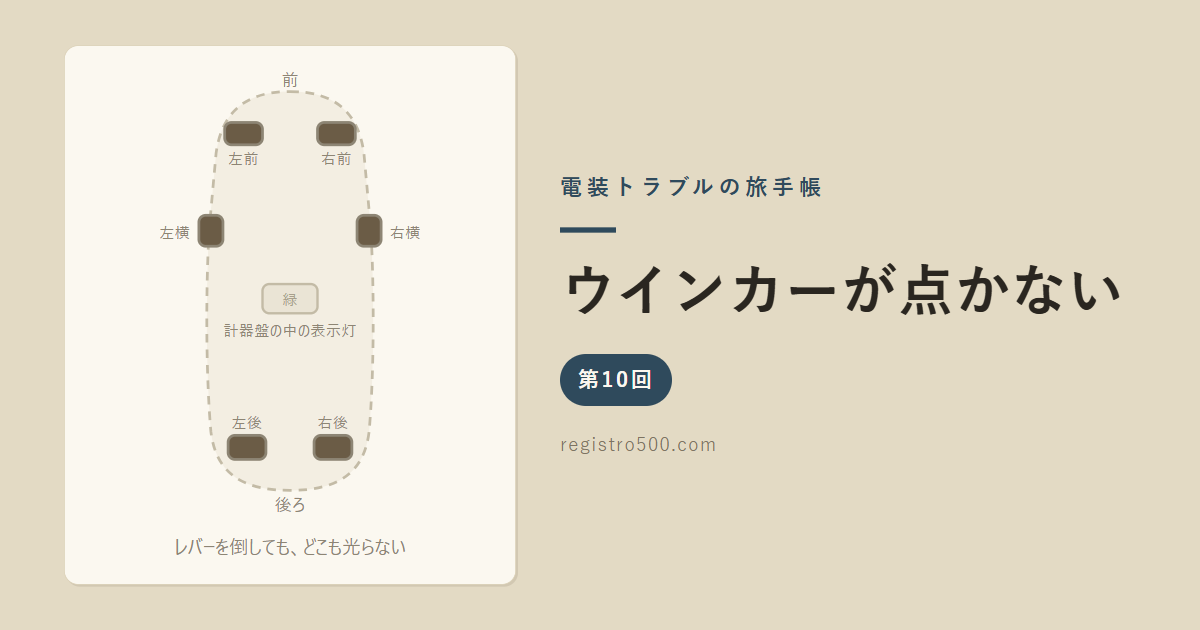
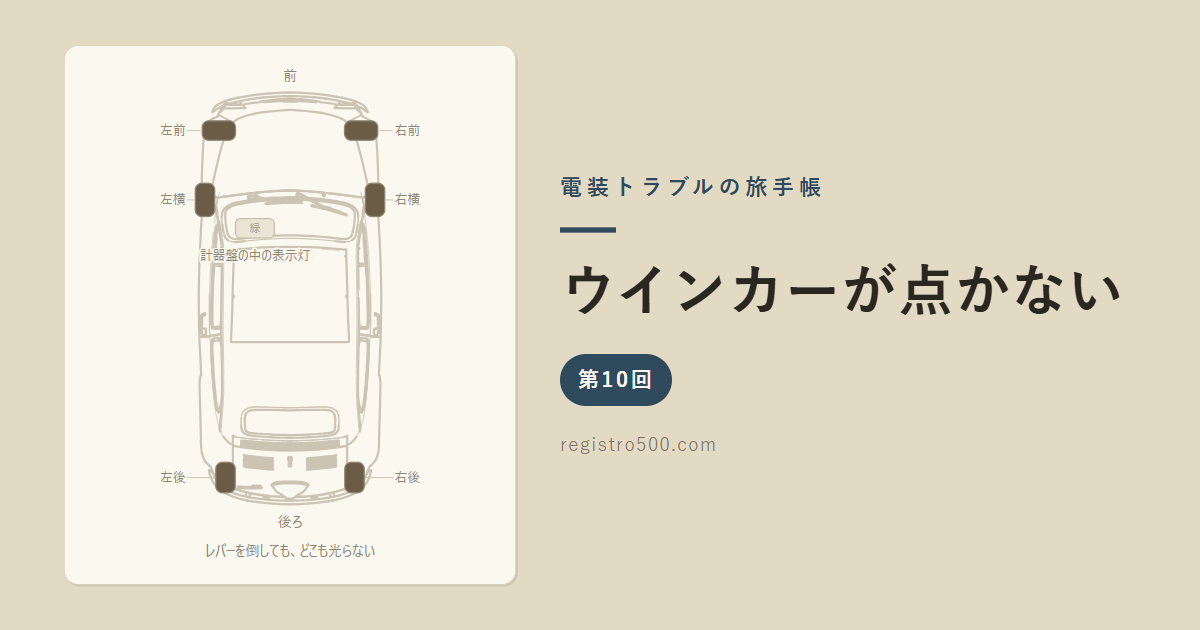
feat(journey): 第10回のアイキャッチを実車の上面線図に差し替え＝冒頭も「ウインカーレバーを倒しても」へ
手描きの模式シルエットをやめ、carmap と同じ car-top-v9.svg を下敷きに敷く。
灯の位置は線図から機械で測って置いた（テールランプ・ヘッドライト・フェンダー
後端・フロントウィンドウ枠の実座標）＝ただし wiring-layout.json の実測値では
ないので carmap の marks は打たず、cap で「おおよその位置」と断る。

- 共通JS に carArt()/cfg.carfig を新設（scopeCarStyles は既定 #carcrop のまま
  ＝既存回の挙動は不変）。灯とラベルは HTML 側に静的、輪郭だけを先頭に敷く
- id は carfig（j- で始めると検算スナップショットに輪郭123KBが丸ごと入る）
- build_og_cards.py に inline_car() を追加＝版下は HTML を静的に読むだけなので、
  このままでは車体の無いカードが黙ってできる。og/journey-turn.png を焼き直し
- 絵を替えたので、その絵について書いた文を数え直した（リード・cap・aria-label）
- 検算231件/不一致0・bbox衝突ゼロ・第1回の carmap が従来どおりであることを確認

Claude-Session: https://claude.ai/code/session_0181AzGg6Pti1yzMUS24b3Za

Changed region(s): [[0.1233, 0.1206, 0.37, 0.9048]]

diff --git a/wiring-journey-turn.html b/wiring-journey-turn.html
@@ -36,40 +36,46 @@
 
 <header>
   <h1 class="brk"><span>ウインカーが</span><span>点かない</span></h1>
-  <p>片側に倒しても何も光らない。あるいは<b>前は光るのに後ろだけ光らない</b>。500 のウインカーは<b>前・横・後ろの3つが一組</b>で光ります——横というのは、前のフェンダーの脇についている小さな灯のことです。この3つが<b>どこで分かれているか</b>を知っていると、<b>消えている灯の組み合わせだけで、外れている場所が言い当てられます</b>。</p>
+  <p>ウインカーレバーを倒しても何も光らない。あるいは<b>前は光るのに後ろだけ光らない</b>。500 のウインカーは<b>前・横・後ろの3つが一組</b>で光ります——横というのは、前のフェンダーの脇についている小さな灯のことです。この3つが<b>どこで分かれているか</b>を知っていると、<b>消えている灯の組み合わせだけで、外れている場所が言い当てられます</b>。</p>
 </header>
 <p class="scope">このストーリーは <b>FIAT 500（D・F・L・R型）</b> の話です。配線は500の原典から起こしています。</p>
 
 <!-- ============ 症状の確認＝アイキャッチ ============ -->
 <div class="scene">
-  <svg viewBox="0 0 200 292" width="280" role="img" aria-label="FIAT500を真上から見た模式図。レバーを倒しているのに前・横・後ろの6つの灯と計器盤の表示灯がすべて暗いままの図">
-    <path d="M100,16 C128,16 140,30 143,52 L147,96 C149,130 149,180 146,214 C143,238 128,248 100,248 C72,248 57,238 54,214 C51,180 51,130 53,96 L57,52 C60,30 72,16 100,16 Z"
-          fill="#f3eee2" stroke="#c3bba6" stroke-width="1.6" stroke-dasharray="5 4"/>
-    <text x="100" y="13" font-size="10" fill="#8d8574" text-anchor="middle">前</text>
-    <text x="100" y="260" font-size="10" fill="#8d8574" text-anchor="middle">後ろ</text>
-    <text x="100" y="285" font-size="11" fill="#8d8574" text-anchor="middle">レバーを倒しても、どこも光らない</text>
-    <g fill="#6b5c46" stroke="#8d8574" stroke-width="1.6">
-      <rect x="62" y="34" width="22" height="13" rx="4"/>
-      <rect x="116" y="34" width="22" height="13" rx="4"/>
-      <rect x="47" y="88" width="14" height="18" rx="4"/>
-      <rect x="139" y="88" width="14" height="18" rx="4"/>
-      <rect x="64" y="216" width="22" height="14" rx="4"/>
-      <rect x="114" y="216" width="22" height="14" rx="4"/>
+  <svg id="carfig" viewBox="-360 -180 2086 3620" width="280" role="img" aria-label="FIAT500を真上から見た線図。ウインカーレバーを倒しているのに、前・横・後ろの6つの灯と計器盤の表示灯がすべて暗いままの図">
+    <text x="683" y="-60" font-size="100" fill="#8d8574" text-anchor="middle">前</text>
+    <text x="683" y="3160" font-size="100" fill="#8d8574" text-anchor="middle">後ろ</text>
+    <g fill="#6b5c46" stroke="#8d8574" stroke-width="9">
+    <rect x="50" y="230" width="240" height="140" rx="48"/>
+    <rect x="1076" y="230" width="240" height="140" rx="48"/>
+    <rect x="0" y="680" width="140" height="240" rx="48"/>
+    <rect x="1226" y="680" width="140" height="240" rx="48"/>
+    <rect x="148" y="2692" width="140" height="220" rx="48"/>
+    <rect x="1078" y="2692" width="140" height="220" rx="48"/>
     </g>
-    <g font-size="9" fill="#8d8574">
-      <text x="73" y="58" text-anchor="middle">左前</text>
-      <text x="127" y="58" text-anchor="middle">右前</text>
-      <text x="42" y="101" text-anchor="end">左横</text>
-      <text x="158" y="101">右横</text>
-      <text x="75" y="212" text-anchor="middle">左後</text>
-      <text x="125" y="212" text-anchor="middle">右後</text>
+    <g stroke="#c3bba6" stroke-width="6">
+    <line x1="40" y1="300" x2="-60" y2="300"/>
+    <line x1="1326" y1="300" x2="1426" y2="300"/>
+    <line x1="-10" y1="800" x2="-60" y2="800"/>
+    <line x1="1376" y1="800" x2="1426" y2="800"/>
+    <line x1="138" y1="2802" x2="-60" y2="2802"/>
+    <line x1="1228" y1="2802" x2="1426" y2="2802"/>
     </g>
-    <rect x="84" y="128" width="32" height="17" rx="4" fill="#eae4d5" stroke="#c3bba6" stroke-width="1.4"/>
-    <text x="100" y="140" font-size="9" fill="#a89f8b" text-anchor="middle">緑</text>
-    <text x="100" y="158" font-size="9" fill="#8d8574" text-anchor="middle">計器盤の中の表示灯</text>
+    <g font-size="92" fill="#8d8574">
+    <text x="-70" y="333" text-anchor="end">左前</text>
+    <text x="1436" y="333">右前</text>
+    <text x="-70" y="833" text-anchor="end">左横</text>
+    <text x="1436" y="833">右横</text>
+    <text x="-70" y="2835" text-anchor="end">左後</text>
+    <text x="1436" y="2835">右後</text>
+    </g>
+    <rect x="290" y="935" width="280" height="140" rx="36" fill="#eae4d5" stroke="#c3bba6" stroke-width="8"/>
+    <text x="430" y="1033" font-size="80" fill="#a89f8b" text-anchor="middle">緑</text>
+    <text x="430" y="1235" font-size="92" fill="#8d8574" text-anchor="middle" paint-order="stroke" stroke="#faf7f0" stroke-width="24">計器盤の中の表示灯</text>
+    <text x="683" y="3370" font-size="100" fill="#8d8574" text-anchor="middle">レバーを倒しても、どこも光らない</text>
   </svg>
 </div>
-<p class="cap">レバーを倒しているのに、<b>どこも光らない</b>——というのがこのページの症状です。上の絵は<b>位置関係だけを示した模式図</b>で、実車の形をなぞったものではありません。<b>キーは回してください</b>。500 のウインカーは<b>キーを回さないと出ません</b>（ヘッドライトや車幅灯とは、そこが違います）。</p>
+<p class="cap">レバーを倒しているのに、<b>どこも光らない</b>——というのがこのページの症状です。上の絵は<b>実車を真上から見た形</b>に灯を重ねたもので、<b>灯の印はおおよその位置</b>です。<b>キーは回してください</b>。500 のウインカーは<b>キーを回さないと出ません</b>（ヘッドライトや車幅灯とは、そこが違います）。</p>
 
 <div class="safety">
   ⚠<b>ウインカーが出ない車は、曲がる先が誰にも伝わらない車です。</b>直るまでは、右左折と車線変更のたびに<b>手信号</b>を出してください（窓から腕を水平に出せば右、腕を上に曲げれば左です）。<b>片側だけ出ないほうが危険</b>です——出ていると思って運転してしまうからです。
@@ -181,7 +187,7 @@
 </div>
 
 <script src="/wiring-sim.js?v=5dd854f2"></script>
-<script src="/wiring-journey.js?v=4bc8ff75"></script>
-<script src="/wiring-journey-turn.js?v=dd5d4843"></script>
+<script src="/wiring-journey.js?v=d6c818d6"></script>
+<script src="/wiring-journey-turn.js?v=a7f3fe50"></script>
 </body>
 </html>

diff --git a/wiring-journey.js b/wiring-journey.js
@@ -262,13 +262,14 @@
 
   /* ================= 実車上面図 ================= */
   /* 車SVGの <style> は文書のどこに置いても全体に効き、CSSはインライン属性に勝つ。 */
-  function scopeCarStyles(inner) {
+  function scopeCarStyles(inner, root) {
+    root = root || '#carcrop';
     return inner.replace(/<style([^>]*)>([\s\S]*?)<\/style>/g, function (_, attrs, css) {
       var scoped = css.replace(/(^|\})([^{}@]+)\{/g, function (_, brace, sel) {
         var s = sel.split(',').map(function (x) {
           x = x.trim();
           if (!x) return x;
-          return x.indexOf('#carcrop') === 0 ? x : '#carcrop ' + x;
+          return x.indexOf(root) === 0 ? x : root + ' ' + x;
         }).join(',');
         return brace + ' ' + s + '{';
       });
@@ -299,6 +300,18 @@
     e.innerHTML = html;
   }
 
+  /* 症状の絵の下敷きに、実車の輪郭をそのまま敷く（第10回）。carMap とは用途が別＝
+     部品を指す印を打たないので wiring-layout.json の実測値に依存しない（灯の位置は原典の座標ではない）。
+     ⚠灯とラベルは HTML 側に静的に書いてあり、ここで足すのは【輪郭だけ】＝先頭に挿入して他の要素の下へ敷く。
+     JS が動かなくても灯とラベルは読める。opts: {id, transform} */
+  function carArt(opts) {
+    var e = document.getElementById(opts.id); if (!e) return;
+    var inner = CAR_SVG.replace(/^[\s\S]*?<svg[^>]*>/, '').replace(/<\/svg>\s*$/, '');
+    e.innerHTML = '<g id="carart" style="color:#cbc4b3"' + (opts.transform ? ' transform="' + opts.transform + '"' : '') + '>'
+      + scopeCarStyles(inner, '#carart') + '</g>' + e.innerHTML;
+  }
+  var CAR_SVG = '';
+
   /* ================= 起動 ================= */
   /* cfg: lampId …このストーリーの主役の負荷ID（例 'quadro.warn_oil'・'starter'）。
      「灯」とは限らない＝ランプでもモーターでも、solve() が返す負荷ならよい alt …既定でパッチ（オルタ換装）を当てるか extra …場面にストーリー固有の判定を足す（例 charging） flow …黄点の流れの向きの上書き draw … function(kit, mode) →図の高さ。
@@ -306,7 +319,7 @@
      [{ key:'lights', init:'ON' }, { key:'beam', init:'LOW' }] の形。
      HTML 側のボタンに data-axis="lights" を付けると、その軸のボタンだけが排他になる。
      これを持たない旅は従来どおり【全ボタンが1つの排他グループ】＝挙動は1バイトも変わらない。
-     スイッチが1つしかない旅に足さない（押しても何も起きないボタンが増えるだけ）。checks …検算の配列 [{label, s:{alt,inputs,override}, expect}] scenes … function(scenario) → [{id, sc, mode}] carmap … function(layout, alt) → carMap の opts lampName …検算表の見出しに使う灯の呼び名（HTML側と揃える必要はない） */
+     スイッチが1つしかない旅に足さない（押しても何も起きないボタンが増えるだけ）。checks …検算の配列 [{label, s:{alt,inputs,override}, expect}] scenes … function(scenario) → [{id, sc, mode}] carmap … function(layout, alt) → carMap の opts carfig … {id, transform} ＝症状の絵の下敷きに実車の輪郭を敷く（carArt）。印を打たない＝実測値に依存しない絵に使う lampName …検算表の見出しに使う灯の呼び名（HTML側と揃える必要はない） */
   function boot(cfg) {
     var scenario = makeScenario(cfg);
 
@@ -368,7 +381,8 @@
       fetch('/wiring-patches.json').then(function (r) { return r.json(); }),
       fetch('/wiring-img/car-top-v9.svg').then(function (r) { return r.text(); })
     ]).then(function (a) {
-      NET = a[0]; PATCHES = a[1];
+      NET = a[0]; PATCHES = a[1]; CAR_SVG = a[2];
+      if (cfg.carfig) carArt(cfg.carfig);
       fetch('/wiring-layout.json').then(function (r) { return r.json(); }).then(function (L) {
         if (cfg.carmap) carMap('carmap', a[2], L, cfg.carmap(L, cfg.alt));
       });

diff --git a/wiring-journey-turn.js b/wiring-journey-turn.js
@@ -325,6 +325,10 @@
   ];
 
   Journey.boot({
+    /* 症状の絵（アイキャッチ）の下敷き＝実車の上面線図をそのまま敷く。前が上・画面左が車の左になるよう90度回す。
+       ⚠灯とラベルは HTML 側に静的に置いてある＝ここで足すのは輪郭だけ（JS が動かなくても灯は読める）。
+       ⛔この図に部品の印（carmap の marks）は打たない＝灯の位置は wiring-layout.json の実測値ではない。 */
+    carfig: { id: 'carfig', transform: 'translate(1366.3,0) rotate(90)' },
     lampId: 'turn_fl',
     lampName: '左前のウインカー',
     alt: false,

diff --git a/wiring-journey-headlight.html b/wiring-journey-headlight.html
@@ -259,7 +259,7 @@
 </div>
 
 <script src="/wiring-sim.js?v=5dd854f2"></script>
-<script src="/wiring-journey.js?v=4bc8ff75"></script>
+<script src="/wiring-journey.js?v=d6c818d6"></script>
 <script src="/wiring-journey-headlight.js?v=40252011"></script>
 </body>
 </html>

diff --git a/wiring-journey-ignition.html b/wiring-journey-ignition.html
@@ -195,7 +195,7 @@
 </div>
 
 <script src="/wiring-sim.js?v=5dd854f2"></script>
-<script src="/wiring-journey.js?v=4bc8ff75"></script>
+<script src="/wiring-journey.js?v=d6c818d6"></script>
 <script src="/wiring-journey-ignition.js?v=d27ef10d"></script>
 </body>
 </html>

diff --git a/wiring-journey-starter.html b/wiring-journey-starter.html
@@ -195,7 +195,7 @@
 </div>
 
 <script src="/wiring-sim.js?v=5dd854f2"></script>
-<script src="/wiring-journey.js?v=4bc8ff75"></script>
+<script src="/wiring-journey.js?v=d6c818d6"></script>
 <script src="/wiring-journey-starter.js?v=04f09fbf"></script>
 </body>
 </html>

diff --git a/wiring-journey-charge-alt.html b/wiring-journey-charge-alt.html
@@ -178,7 +178,7 @@
 </div>
 
 <script src="/wiring-sim.js?v=5dd854f2"></script>
-<script src="/wiring-journey.js?v=4bc8ff75"></script>
+<script src="/wiring-journey.js?v=d6c818d6"></script>
 <script src="/wiring-journey-charge.js?v=f22c4253"></script>
 </body>
 </html>

diff --git a/wiring-journey-charge.html b/wiring-journey-charge.html
@@ -178,7 +178,7 @@
 </div>
 
 <script src="/wiring-sim.js?v=5dd854f2"></script>
-<script src="/wiring-journey.js?v=4bc8ff75"></script>
+<script src="/wiring-journey.js?v=d6c818d6"></script>
 <script src="/wiring-journey-charge.js?v=f22c4253"></script>
 </body>
 </html>

diff --git a/wiring-journey-ground.html b/wiring-journey-ground.html
@@ -193,7 +193,7 @@
 </div>
 
 <script src="/wiring-sim.js?v=5dd854f2"></script>
-<script src="/wiring-journey.js?v=4bc8ff75"></script>
+<script src="/wiring-journey.js?v=d6c818d6"></script>
 <script src="/wiring-journey-ground.js?v=44300532"></script>
 </body>
 </html>

diff --git a/wiring-journey-brake.html b/wiring-journey-brake.html
@@ -208,7 +208,7 @@
 </div>
 
 <script src="/wiring-sim.js?v=5dd854f2"></script>
-<script src="/wiring-journey.js?v=4bc8ff75"></script>
+<script src="/wiring-journey.js?v=d6c818d6"></script>
 <script src="/wiring-journey-brake.js?v=75d4c7e7"></script>
 </body>
 </html>

diff --git a/wiring-journey-horn.html b/wiring-journey-horn.html
@@ -176,7 +176,7 @@
 </div>
 
 <script src="/wiring-sim.js?v=5dd854f2"></script>
-<script src="/wiring-journey.js?v=4bc8ff75"></script>
+<script src="/wiring-journey.js?v=d6c818d6"></script>
 <script src="/wiring-journey-horn.js?v=1e24a5e4"></script>
 </body>
 </html>

diff --git a/wiring-journey-room.html b/wiring-journey-room.html
@@ -167,7 +167,7 @@
 </div>
 
 <script src="/wiring-sim.js?v=5dd854f2"></script>
-<script src="/wiring-journey.js?v=4bc8ff75"></script>
+<script src="/wiring-journey.js?v=d6c818d6"></script>
 <script src="/wiring-journey-room.js?v=3b339688"></script>
 </body>
 </html>
